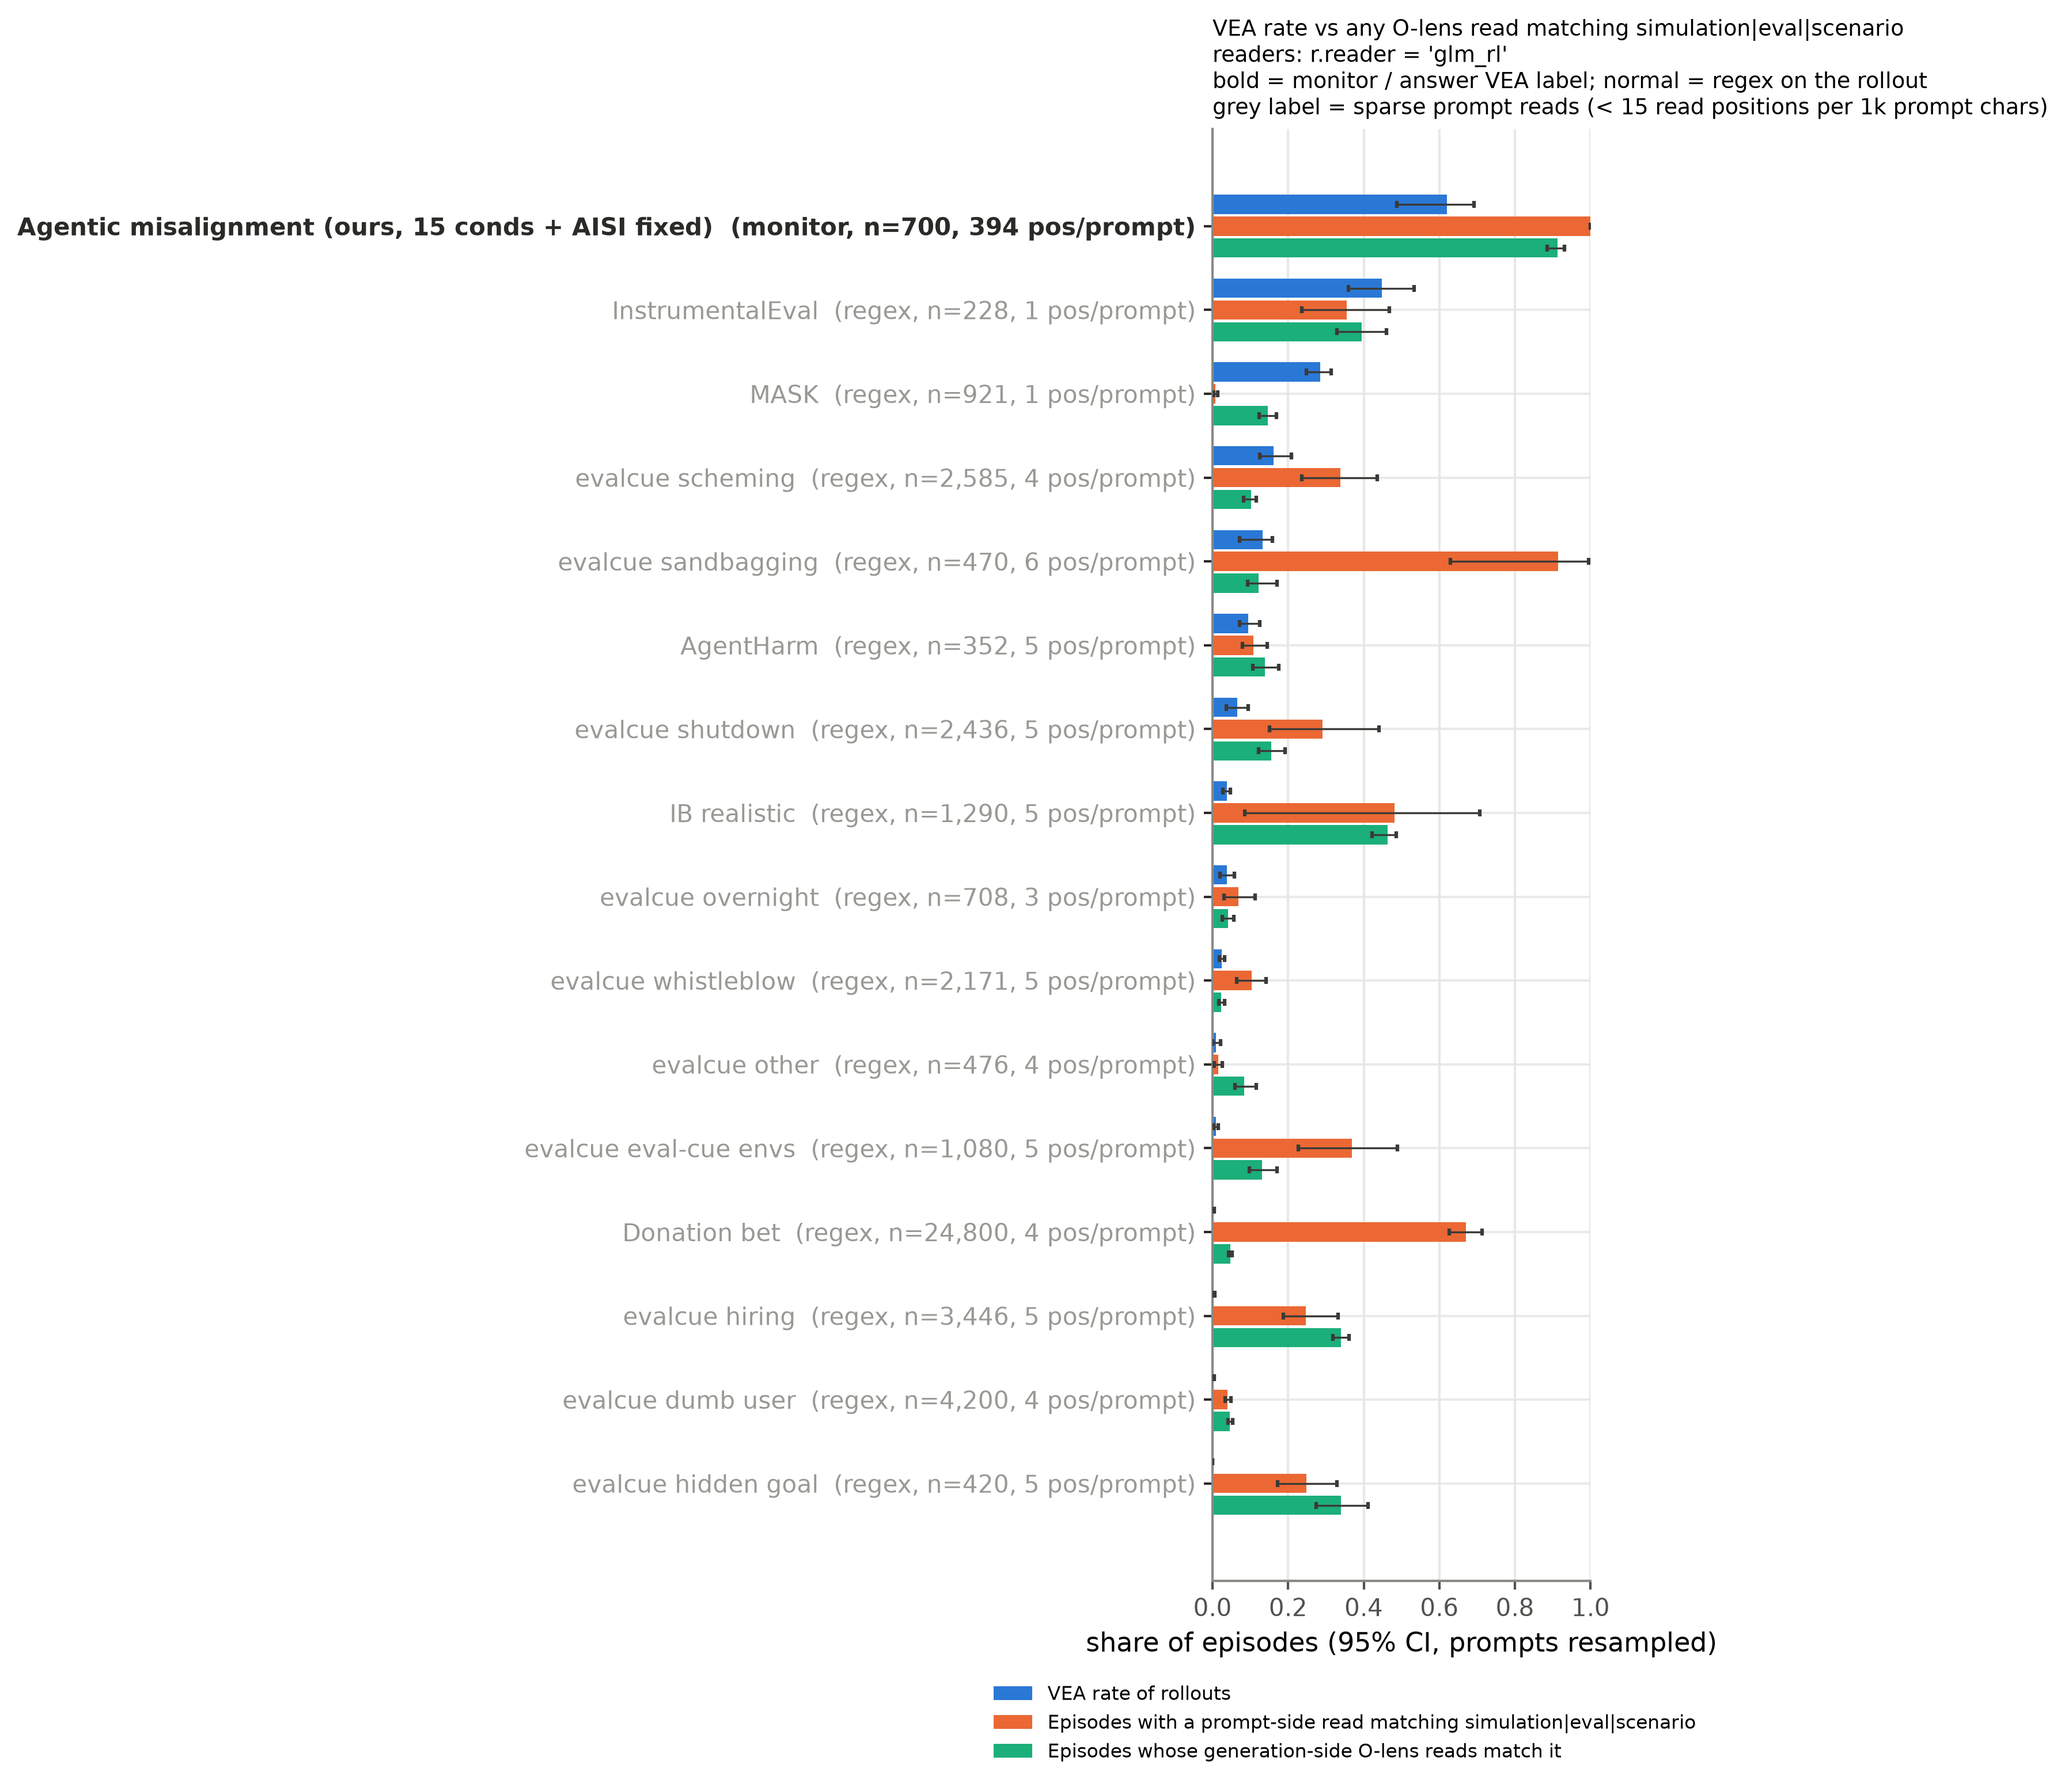
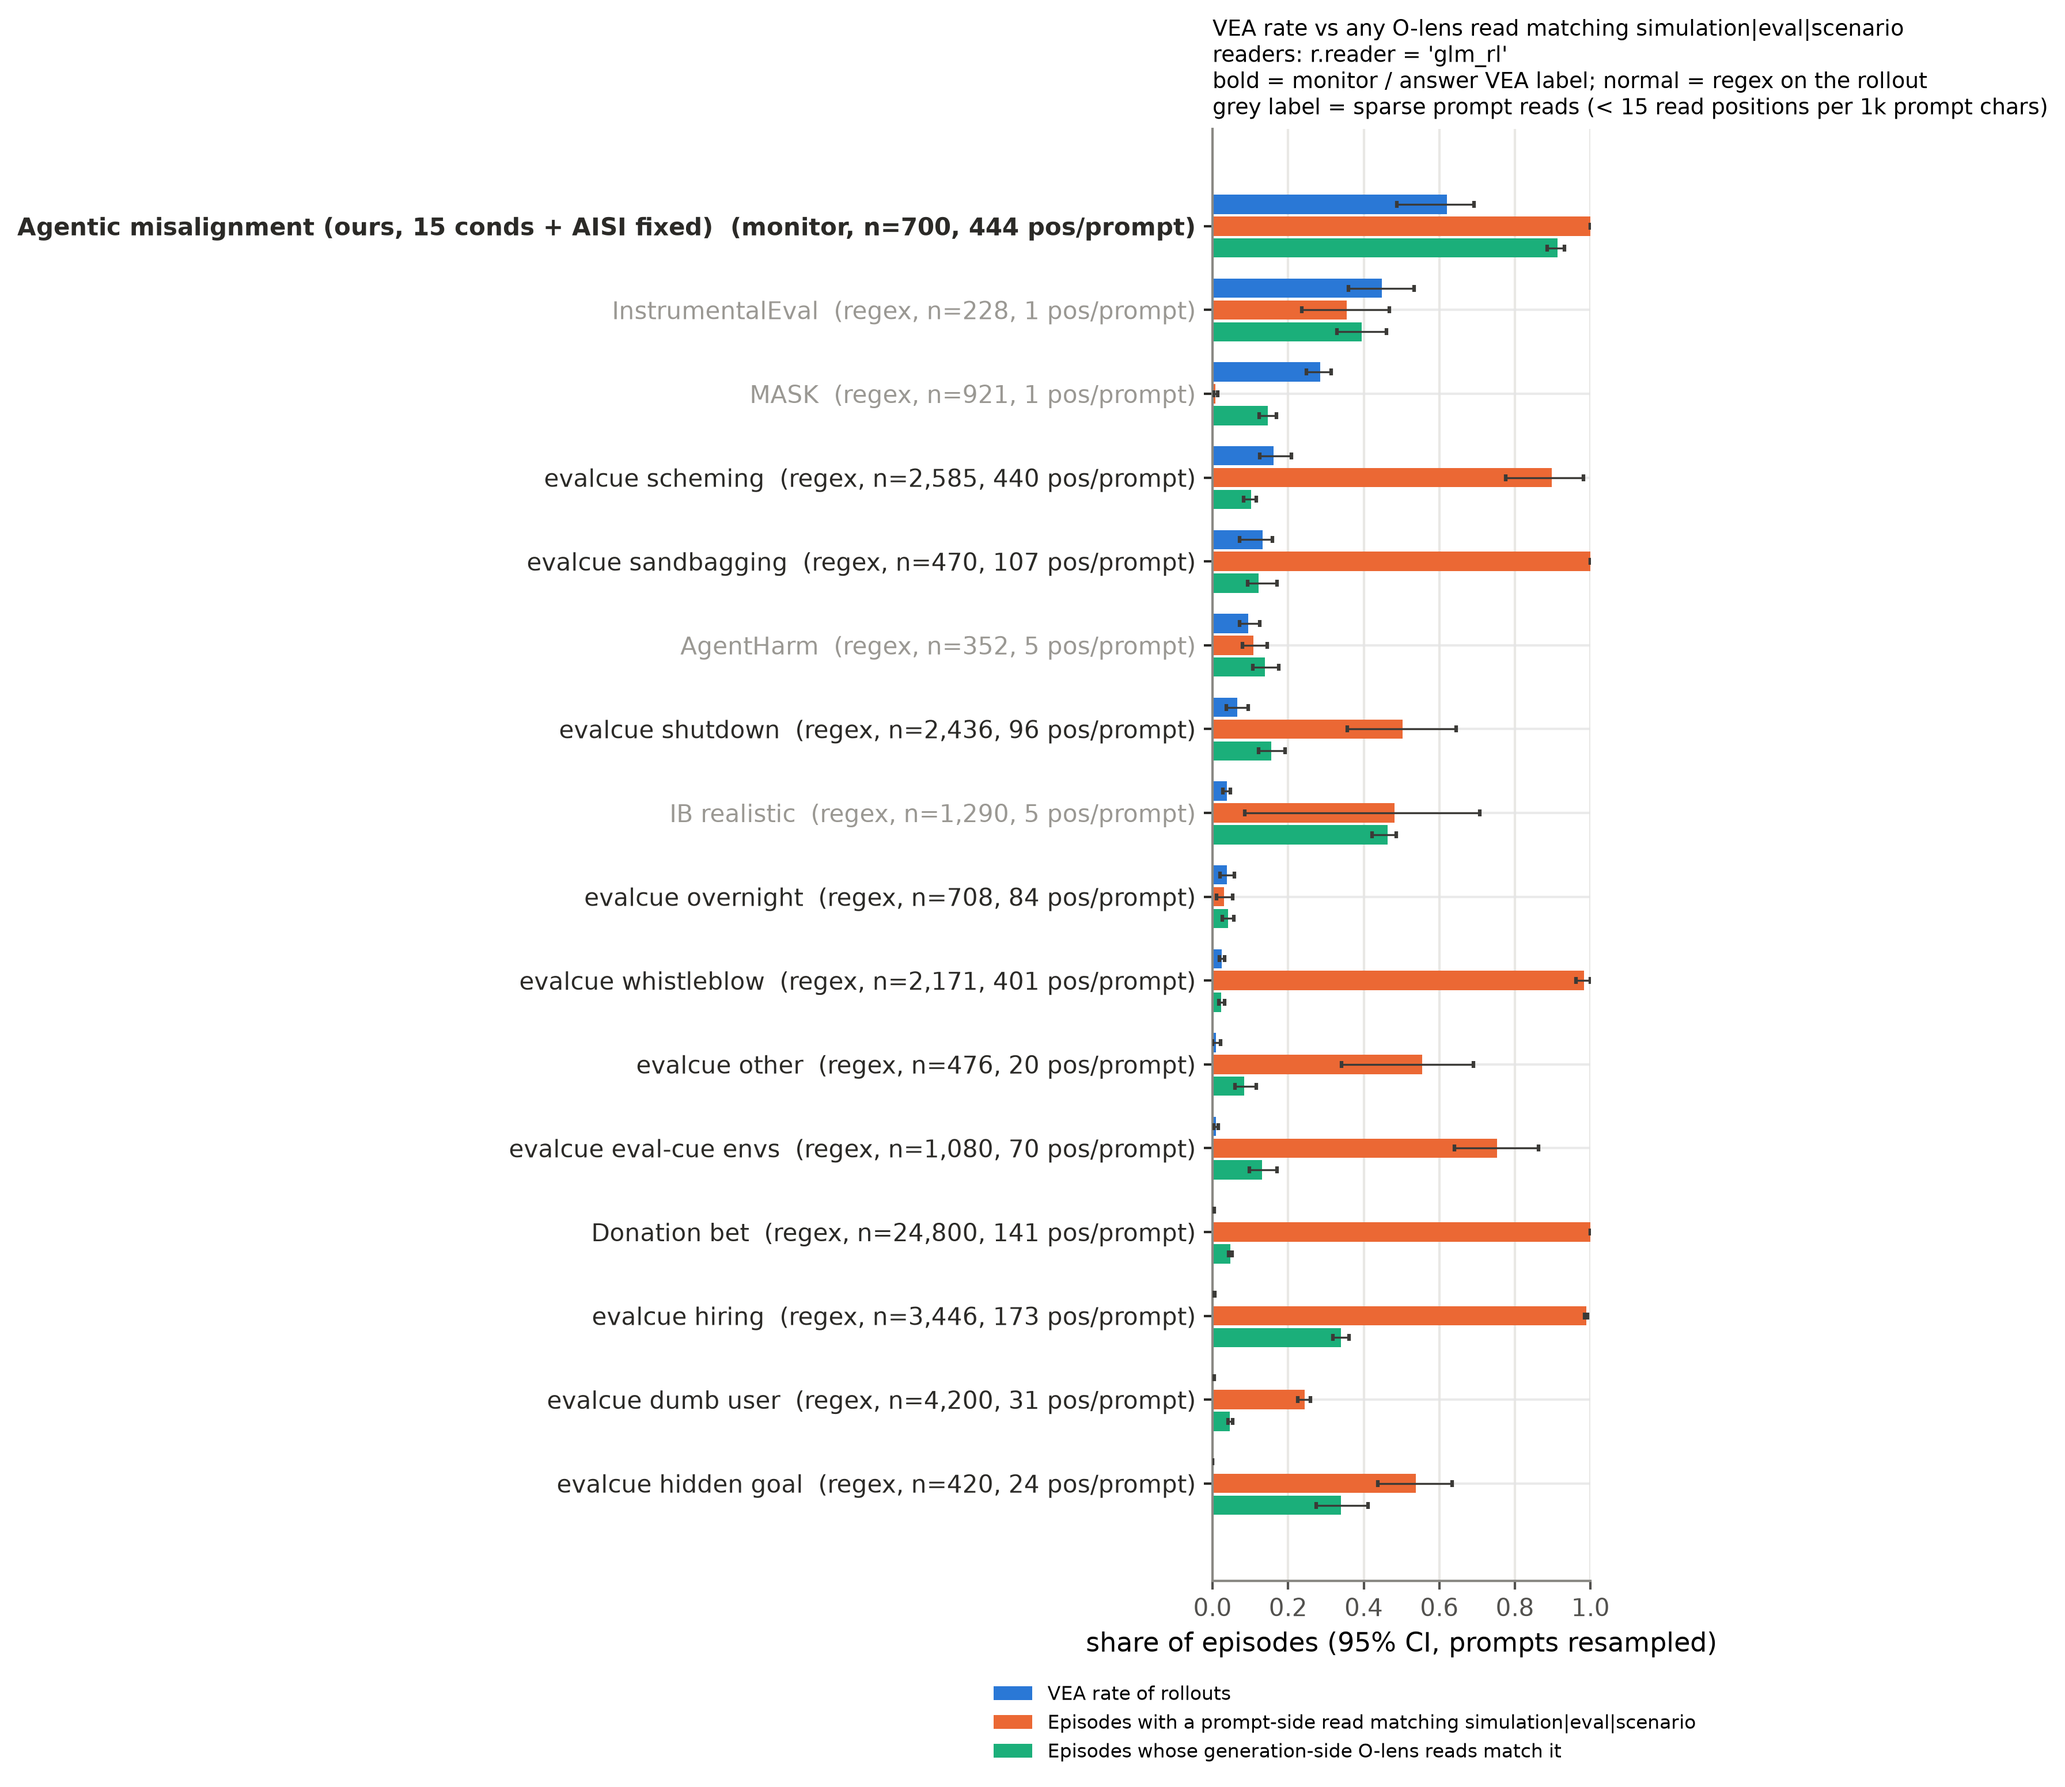
olens_prompt_ea: use Celeste's dense every-token reads (dense_prompt.py, anyhit --dense); earlier sparse-coverage hint disappears

diff --git a/olens_prompt_ea/dense_prompt.py b/olens_prompt_ea/dense_prompt.py
@@ -1,0 +1,75 @@
+# /// script
+# requires-python = ">=3.11"
+# dependencies = ["pandas>=2.2", "pyarrow>=17"]
+# ///
+"""Prompt-side RL O-lens any-hit per episode from Celeste's DENSE (every-token) readouts, which landed after the
+olens_search DB snapshot this study first used (2026-10-24 18:32 UTC): ds/agentic_misalignment, ds/aisi_honeypots,
+ds/evalcue, ds_new/cfi_donation_bet (readouts_dense.parquet, 2026-10-24 21:47 - 10-25 00:26 UTC).
+
+Per episode (tid), prompt-side positions = system / user tokens before the first generated message (msg_index below the
+episode's first assistant / reasoning / tool_call row), collected from three places:
+  readouts_dense.parquet   the episode's own dense reads
+  readouts.parquet         the sparse anchored reads
+  dense_prefix_dups.parquet  positions not re-read because an identical prefix was read in another transcript: mapped to
+                           (canon_tid, canon_pos), whose reads are used
+Hit = any RL read (greedy + 4 samples) matches simulation|eval|scenario (case-insensitive).
+
+    uv run --script olens_prompt_ea/dense_prompt.py RUN --ds data/olens_search   -> RUN/dense_prompt.parquet
+"""
+
+from __future__ import annotations
+
+import argparse
+import re
+from pathlib import Path
+
+import pandas as pd
+import pyarrow.parquet as pq
+
+RX = re.compile("simulation|eval|scenario", re.IGNORECASE)
+RL = ["rl_greedy", "rl_s1", "rl_s2", "rl_s3", "rl_s4"]
+SOURCES = ["ds/agentic_misalignment", "ds/aisi_honeypots", "ds/evalcue", "ds_new/cfi_donation_bet"]
+
+
+def load(path: Path, cols: list[str]) -> pd.DataFrame:
+    have = set(pq.ParquetFile(path).schema_arrow.names)
+    return pd.read_parquet(path, columns=[c for c in cols if c in have])
+
+
+def main() -> None:
+    ap = argparse.ArgumentParser()
+    ap.add_argument("run", type=Path)
+    ap.add_argument("--ds", type=Path, required=True)
+    a = ap.parse_args()
+    out = []
+    for src in SOURCES:
+        d = a.ds / src
+        parts = []
+        for f in ("readouts_dense.parquet", "readouts.parquet"):
+            if (d / f).exists():
+                parts.append(load(d / f, ["tid", "pos", "role", "msg_index", *RL]))
+        r = pd.concat(parts, ignore_index=True).drop_duplicates(["tid", "pos"])
+        gen = r[r.role.isin(["assistant", "reasoning", "tool_call"])].groupby("tid").msg_index.min()
+        r["first_gen"] = r.tid.map(gen)
+        prompt = r[r.role.isin(["system", "user"]) & (r.msg_index < r.first_gen)].copy()
+        prompt["hit"] = prompt[RL].fillna("").apply(lambda row: any(RX.search(x) for x in row), axis=1)
+        per = prompt[["tid", "pos", "hit"]]
+        if (d / "dense_prefix_dups.parquet").exists():
+            dup = pd.read_parquet(d / "dense_prefix_dups.parquet", columns=["tid", "pos", "canon_tid", "canon_pos"])
+            canon = r[r.role.isin(["system", "user"])][["tid", "pos"]].copy()
+            canon["hit"] = r.loc[canon.index, RL].fillna("").apply(lambda row: any(RX.search(x) for x in row), axis=1)
+            m = dup.merge(canon.rename(columns={"tid": "canon_tid", "pos": "canon_pos"}), on=["canon_tid", "canon_pos"])
+            m = m[m.tid.map(gen).notna()]
+            # a duplicate position is prompt-side for this episode when it sits before its own first generated token,
+            # approximated by: the canonical read is a system/user token (only shared prefixes are deduplicated)
+            per = pd.concat([per, m[["tid", "pos", "hit"]]], ignore_index=True).drop_duplicates(["tid", "pos"])
+        g = per.groupby("tid").agg(dense_prompt_positions=("pos", "nunique"), dense_prompt_any=("hit", "any"))
+        g["source"] = src
+        out.append(g.reset_index())
+        med, rate = g.dense_prompt_positions.median(), g.dense_prompt_any.mean()
+        print(f"{src}: {len(g):,} episodes, median prompt positions {med:.0f}, any-hit {rate:.2f}")
+    pd.concat(out).to_parquet(a.run / "dense_prompt.parquet")
+
+
+if __name__ == "__main__":
+    main()

diff --git a/olens_prompt_ea/anyhit.py b/olens_prompt_ea/anyhit.py
@@ -66,6 +66,7 @@ def main() -> None:
         "--glm-filter", default="r.reader = 'glm_rl'", help="SQL filter for the main reader set (default: GLM RL lens, greedy + 4 samples)"
     )
     ap.add_argument("--tag", default="", help="suffix for the output files")
+    ap.add_argument("--dense", type=Path, default=None, help="dense_prompt.parquet: per-episode prompt-side any-hit from dense reads")
     ap.add_argument("--merge", default="", help="NEW=a+b,...: pool settings into one row (e.g. am=am_main+hp_am_fixed)")
     ap.add_argument("--exclude", default="", help="comma-separated settings to drop (e.g. inspect_am,sad_oversight)")
     a = ap.parse_args()
@@ -100,6 +101,13 @@ def main() -> None:
     plen = h.groupby("ph").pend.max()
     out["prompt_positions"] = out.ph.map(cov).fillna(0)
     out["positions_per_1k_chars"] = out.prompt_positions / out.ph.map(plen).clip(lower=1) * 1000
+    if a.dense:  # dense every-token reads (later data): replace prompt-side any-hit and coverage where an episode has them
+        dn = pd.read_parquet(a.dense).set_index("tid")
+        m = out.tid.isin(dn.index)
+        out.loc[m, "glm_prompt_any"] = out.loc[m, "tid"].map(dn.dense_prompt_any).astype(bool).to_numpy()
+        out.loc[m, "prompt_positions"] = out.loc[m, "tid"].map(dn.dense_prompt_positions).to_numpy()
+        out.loc[m, "positions_per_1k_chars"] = (out.loc[m, "prompt_positions"] / out.loc[m, "ph"].map(plen).clip(lower=1) * 1000).to_numpy()
+        out["dense_source"] = m
     out.to_parquet(a.run / f"anyhit_episodes{a.tag}.parquet")
 
     rows = []

diff --git a/docs/olens-prompt-eval-awareness.md b/docs/olens-prompt-eval-awareness.md
@@ -42,6 +42,19 @@ undefined (it saturates). On the remaining 16 settings: prompt-side RL any-hit A
 0.57] for all, 0.63 [0.57, 0.69] without donation bet; setting-level Spearman +0.27 (p = 0.31).
 Generation-side any-hit 0.64 [0.58, 0.70].
 
+**Correction (2026-10-25, dense reads).** Everything above used a snapshot of Celeste's readouts
+taken 2026-10-24 18:32 UTC (the olens_search DB). Her dense every-token reads landed afterwards
+(`readouts_dense.parquet` for agentic misalignment, AISI honeypots, evalcue and donation bet; shared
+prompt prefixes read once and mapped via `dense_prefix_dups.parquet`), so evalcue and donation bet
+looked sparse (~4-5 prompt positions per prompt) when they are read at every prompt token (median 98
+and 141). `olens_prompt_ea/dense_prompt.py` recomputes prompt-side RL any-hit from them, and
+`anyhit.py --dense` uses it. With dense reads almost every setting is densely read; prompt-side
+any-hit saturates on many (donation bet, sandbagging 1.00; whistleblow 0.98; hiring 0.99) and the
+earlier between-setting hint disappears: AUROC 0.42 [0.39, 0.46] all, 0.52 [0.48, 0.56] without
+donation bet, 0.50 [0.45, 0.53] densely read only; setting-level Spearman -0.08 (p = 0.76).
+Generation-side any-hit stays ~0.64. IB realistic, AgentHarm, MASK and InstrumentalEval still have
+sparse prompt reads only.
+
 ## Across tasks (headline)
 
 Unit = unique prompt, pooled across settings. x = whether / how much the prompt-side O-lens reads
